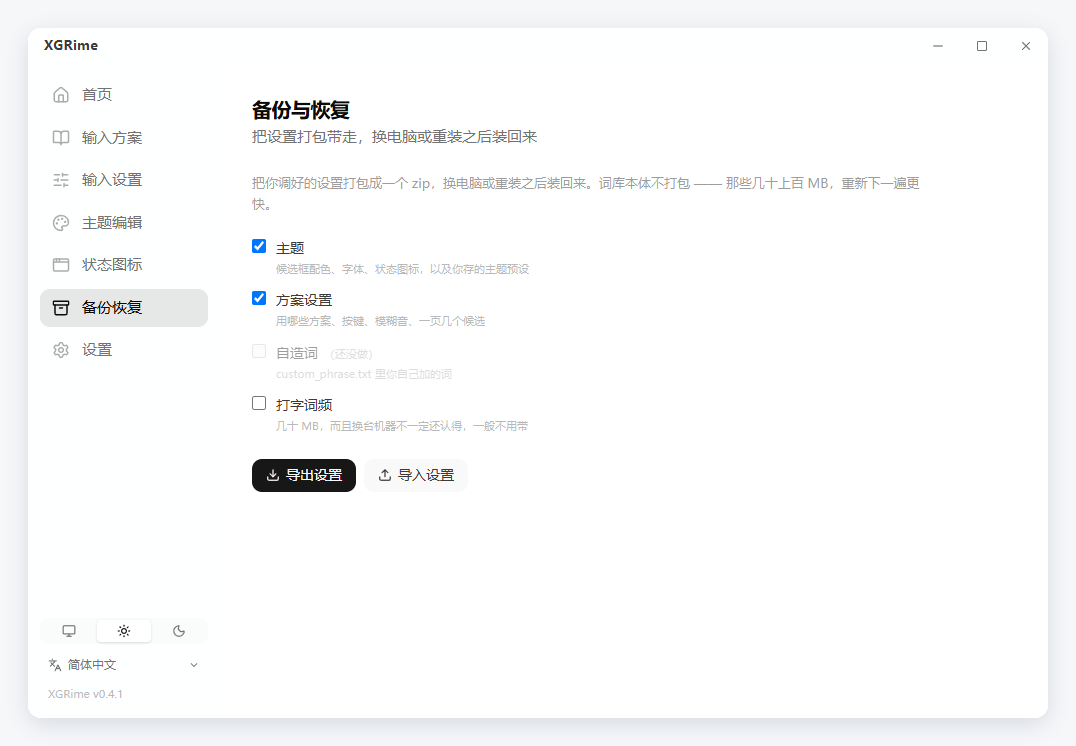
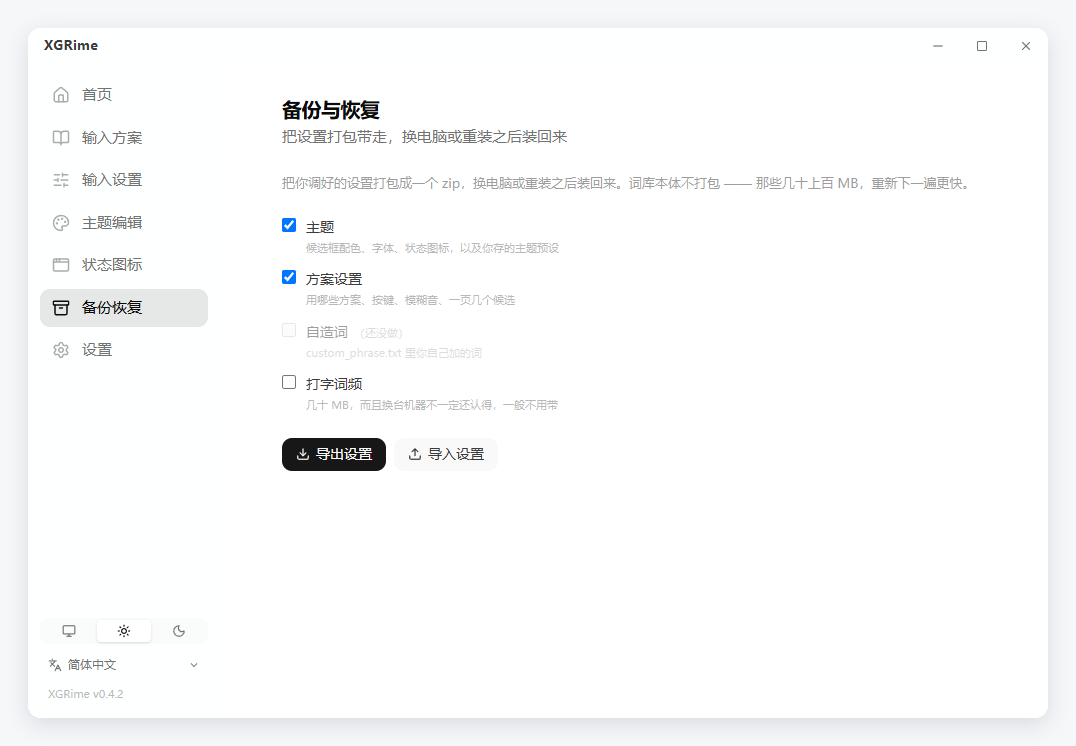
💄 ui: 内容统一收进一根居中的列，首页按钮重排
窗口一拉大，各页内容全贴在左边、右边空一大片 —— 因为每个页面各写各的
max-w 又都靠左。宽度改由外壳统一管：一根居中的列，窗口拉多大内容都在中间，
各页把自己那层 max-w 都摘了（留着反而会在这根列里再偏一次）。

首页那排按钮也重排了：四个常用操作一排，卸载单独放到下面一行、压低存在感。
它原来跟「重新部署」并排还靠 ml-auto 挤到第二行右边，又乱又容易误点。

截图四语各重抓一遍。

Changed region(s): [[0.2147, 0.1233, 0.8894, 0.6783], [0.368, 0.4625, 0.3987, 0.4933]]

diff --git a/src/views/StatusIcons.vue b/src/views/StatusIcons.vue
@@ -202,14 +202,14 @@ watch(() => rimeStore.installInfo?.configDir, load, { immediate: true })
     </div>
 
     <div class="flex-1 overflow-auto min-h-0 pb-8 space-y-8">
-      <p class="text-[13px] text-muted-foreground/70 leading-relaxed max-w-2xl">
+      <p class="text-[13px] text-muted-foreground/70 leading-relaxed">
         {{ $t('icons.hint', { schema: schemaId || '—' }) }}
       </p>
 
       <!-- 内置图标 -->
       <div class="space-y-3">
         <h3 class="text-[15px] font-semibold text-foreground/90">{{ $t('icons.builtin') }}</h3>
-        <div class="grid grid-cols-1 min-[820px]:grid-cols-2 gap-3 max-w-3xl">
+        <div class="grid grid-cols-1 min-[820px]:grid-cols-2 gap-3">
           <!-- 自动：不是某一套图标，是个选择，所以单独一张卡 -->
           <button
             class="rounded-xl bg-card p-4 border transition-all text-left disabled:opacity-40 min-[820px]:col-span-2"
@@ -262,13 +262,13 @@ watch(() => rimeStore.installInfo?.configDir, load, { immediate: true })
           </button>
         </div>
 
-        <p class="text-[11px] text-muted-foreground/50 leading-relaxed max-w-3xl">
+        <p class="text-[11px] text-muted-foreground/50 leading-relaxed">
           {{ $t('icons.bootHint') }}
         </p>
       </div>
 
       <!-- 一个个换 -->
-      <div class="space-y-3 max-w-3xl">
+      <div class="space-y-3">
         <h3 class="text-[15px] font-semibold text-foreground/90">{{ $t('icons.custom') }}</h3>
         <div v-for="kind in KINDS" :key="kind" class="flex items-center justify-between gap-3 py-1">
           <div class="min-w-0">

diff --git a/src/views/Home.vue b/src/views/Home.vue
@@ -161,7 +161,7 @@ async function openRelease() {
 </script>
 
 <template>
-  <div class="max-w-xl space-y-8">
+  <div class="space-y-8">
     <div>
       <h1 class="text-xl font-semibold tracking-tight">XGRime</h1>
       <p class="text-[15px] text-muted-foreground mt-1">{{ $t('home.tagline') }}</p>
@@ -209,7 +209,7 @@ async function openRelease() {
           </button>
         </div>
 
-        <div class="flex flex-wrap gap-2.5">
+        <div class="flex flex-wrap items-center gap-2.5">
           <button
             class="inline-flex items-center gap-2 px-4 py-2 rounded-lg bg-primary text-primary-foreground text-[15px] hover:bg-primary/90 transition-colors disabled:opacity-50"
             :disabled="job.deploying"
@@ -243,12 +243,14 @@ async function openRelease() {
             <span class="icon-[lucide--refresh-cw] size-4 opacity-60" />
             {{ $t('common.recheck') }}
           </button>
+        </div>
+
+        <div v-if="info.canUninstall" class="pt-1">
           <button
-            v-if="info.canUninstall"
-            class="inline-flex items-center gap-2 px-4 py-2 rounded-lg text-[15px] text-muted-foreground hover:text-red-500 transition-colors ml-auto"
+            class="inline-flex items-center gap-1.5 text-[13px] text-muted-foreground/70 hover:text-red-500 transition-colors"
             @click="handleUninstall"
           >
-            <span class="icon-[lucide--trash-2] size-4" />
+            <span class="icon-[lucide--trash-2] size-3.5" />
             {{ $t('home.uninstallButton', { ime }) }}
           </button>
         </div>

diff --git a/src/App.vue b/src/App.vue
@@ -78,7 +78,11 @@ onMounted(() => {
 
       <!-- 主内容区 -->
       <main class="flex-1 overflow-auto">
-        <div class="p-8 h-full">
+        <!--
+          内容统一收在一根居中的列里：窗口拉多大都不会散到左边去。
+          宽度归这里管，各个页面就别再自己写 max-w 了，写了反而会在这根列里再偏一次。
+        -->
+        <div class="p-8 h-full mx-auto w-full max-w-3xl">
           <HomeView v-if="currentView === 'Home'" />
           <DictionaryView v-else-if="currentView === 'Dictionary'" />
           <SettingsView v-else-if="currentView === 'Settings'" />

diff --git a/src/views/Theme.vue b/src/views/Theme.vue
@@ -252,7 +252,7 @@ watch(
     </div>
 
     <!-- 两个大分区：现成的一套套挑，或者自己一项项调 -->
-    <div class="flex items-center gap-1 p-1 rounded-xl bg-muted/40 mb-5 max-w-3xl">
+    <div class="flex items-center gap-1 p-1 rounded-xl bg-muted/40 mb-5">
       <button
         v-for="name in (['presets', 'custom'] as const)"
         :key="name"
@@ -264,7 +264,7 @@ watch(
       </button>
     </div>
 
-    <div class="flex-1 overflow-auto min-h-0 pb-8 max-w-3xl">
+    <div class="flex-1 overflow-auto min-h-0 pb-8">
       <PresetGallery
           v-show="tab === 'presets'"
           :theme="theme"

diff --git a/src/views/Preferences.vue b/src/views/Preferences.vue
@@ -60,7 +60,7 @@ onMounted(() => {
       <p class="text-[15px] text-muted-foreground mt-0.5">{{ $t('prefs.subtitle') }}</p>
     </div>
 
-    <div class="flex-1 overflow-auto min-h-0 pb-8 max-w-2xl space-y-4">
+    <div class="flex-1 overflow-auto min-h-0 pb-8 space-y-4">
       <section class="rounded-xl bg-card p-4 space-y-4">
         <h2 class="text-[15px] font-semibold text-foreground/90">{{ $t('prefs.startup') }}</h2>
 

diff --git a/src/views/Backup.vue b/src/views/Backup.vue
@@ -95,7 +95,7 @@ async function doImport() {
       <p class="text-amber-500/80">{{ $t('theme.needRime') }}</p>
     </div>
 
-    <div class="max-w-2xl space-y-5">
+    <div class="space-y-5">
       <p class="text-[13px] text-muted-foreground/70 leading-relaxed">
         {{ $t('backup.hint') }}
       </p>

diff --git a/src/views/Dictionary.vue b/src/views/Dictionary.vue
@@ -165,7 +165,7 @@ watch(configDir, (dir) => {
 </script>
 
 <template>
-  <div class="max-w-2xl space-y-6">
+  <div class="space-y-6">
     <div class="flex items-start justify-between gap-4">
       <div>
         <h1 class="text-xl font-semibold tracking-tight">{{ $t('schemas.title') }}</h1>

diff --git a/README.md b/README.md
@@ -18,7 +18,7 @@ English | [官话 - 简体中文](README-cmn_CN.md) | [官話 - 繁體中文](RE
   <img src="https://img.shields.io/badge/Rust-2021-DEA584?style=flat-square&logo=rust" />
   <img src="https://img.shields.io/badge/TypeScript-5-3178C6?style=flat-square&logo=typescript" />
   <img src="https://img.shields.io/badge/platform-Windows%20%7C%20macOS-lightgrey?style=flat-square" />
-  <img src="https://img.shields.io/badge/version-v0.4.1-blue?style=flat-square" />
+  <img src="https://img.shields.io/badge/version-v0.4.2-blue?style=flat-square" />
   <img src="https://img.shields.io/badge/license-MIT-blue?style=flat-square" />
 </p>
 

diff --git a/CHANGELOG.md b/CHANGELOG.md
@@ -3,6 +3,15 @@
 本文件格式参考 [Keep a Changelog](https://keepachangelog.com/zh-CN/1.1.0/)，
 版本号遵循 [语义化版本](https://semver.org/lang/zh-CN/)。
 
+## [v0.4.2] - 2026-08-20
+
+### Changed
+
+- 内容统一收进一根居中的列。以前各页各写各的宽度、一律靠左，窗口一拉大
+  右边就空一大片。现在宽度归外壳管，拉多大内容都在中间
+- 首页按钮重排：四个常用操作一排，卸载单独放到下面一行并压低存在感 ——
+  它跟「重新部署」并排还被挤到第二行右边，又乱又容易误点
+
 ## [v0.4.1] - 2026-08-20
 
 ### Changed

diff --git a/README-cmn_CN.md b/README-cmn_CN.md
@@ -18,7 +18,7 @@
   <img src="https://img.shields.io/badge/Rust-2021-DEA584?style=flat-square&logo=rust" />
   <img src="https://img.shields.io/badge/TypeScript-5-3178C6?style=flat-square&logo=typescript" />
   <img src="https://img.shields.io/badge/%E5%B9%B3%E5%8F%B0-Windows%20%7C%20macOS-lightgrey?style=flat-square" />
-  <img src="https://img.shields.io/badge/version-v0.4.1-blue?style=flat-square" />
+  <img src="https://img.shields.io/badge/version-v0.4.2-blue?style=flat-square" />
   <img src="https://img.shields.io/badge/%E5%8D%8F%E8%AE%AE-MIT-blue?style=flat-square" />
 </p>
 

diff --git a/README-cmn_TW.md b/README-cmn_TW.md
@@ -18,7 +18,7 @@
   <img src="https://img.shields.io/badge/Rust-2021-DEA584?style=flat-square&logo=rust" />
   <img src="https://img.shields.io/badge/TypeScript-5-3178C6?style=flat-square&logo=typescript" />
   <img src="https://img.shields.io/badge/%E5%B9%B3%E8%87%BA-Windows%20%7C%20macOS-lightgrey?style=flat-square" />
-  <img src="https://img.shields.io/badge/version-v0.4.1-blue?style=flat-square" />
+  <img src="https://img.shields.io/badge/version-v0.4.2-blue?style=flat-square" />
   <img src="https://img.shields.io/badge/%E6%8E%88%E6%AC%8A-MIT-blue?style=flat-square" />
 </p>
 

diff --git a/README-jyut.md b/README-jyut.md
@@ -18,7 +18,7 @@
   <img src="https://img.shields.io/badge/Rust-2021-DEA584?style=flat-square&logo=rust" />
   <img src="https://img.shields.io/badge/TypeScript-5-3178C6?style=flat-square&logo=typescript" />
   <img src="https://img.shields.io/badge/%E5%97%B0%E5%BA%A6-Windows%20%7C%20macOS-lightgrey?style=flat-square" />
-  <img src="https://img.shields.io/badge/version-v0.4.1-blue?style=flat-square" />
+  <img src="https://img.shields.io/badge/version-v0.4.2-blue?style=flat-square" />
   <img src="https://img.shields.io/badge/%E7%89%8C%E7%85%A7-MIT-blue?style=flat-square" />
 </p>
 
